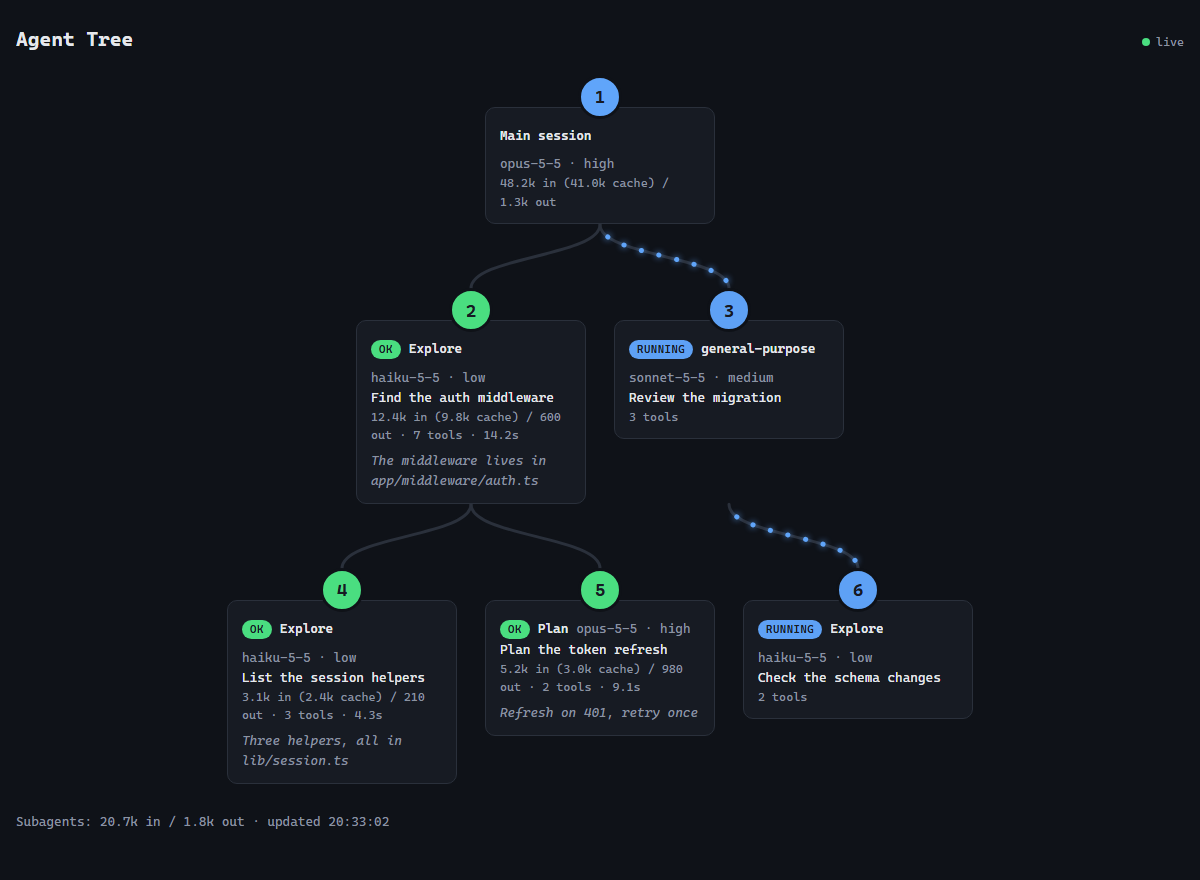
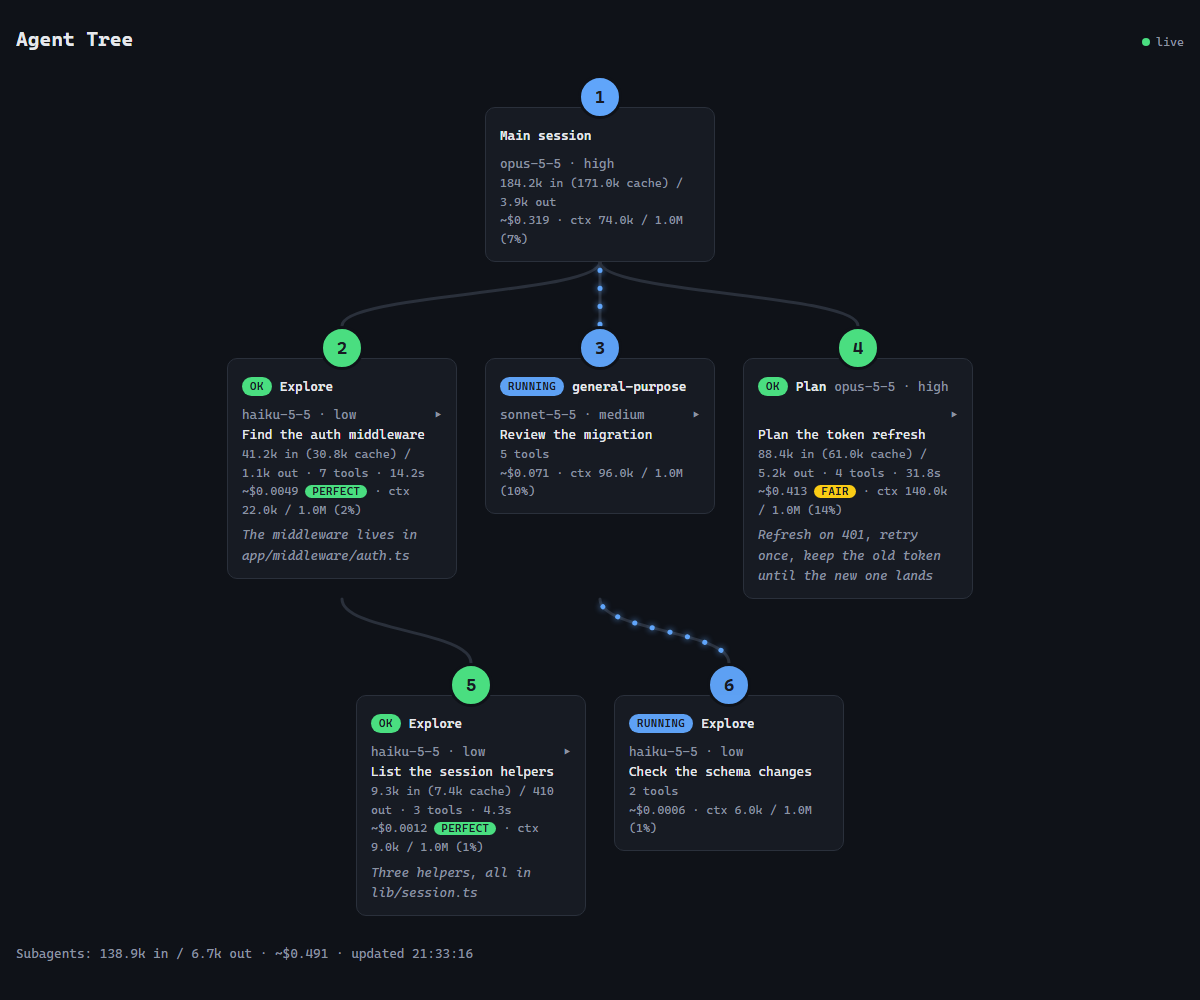
docs: update the README screenshot

diff --git a/README.md b/README.md
@@ -4,9 +4,9 @@ A Claude Code mod that opens an **Agents** pane beside the chat with a live tree
 
 It costs no model tokens: the hooks run inside the app and the pane is drawn by the interface, so nothing is added to the prompt.
 
-![The web page: the orchestrator on top, its subagents by level, joined by wires](docs/screenshot.png)
+![The web page: the orchestrator on top, its subagents by level joined by wires, each card with its estimated cost, rating and context](docs/screenshot.png)
 
-The same tree as a web page (sample data). The dots on a wire run from parent to child while that agent is working.
+The same tree as a web page (sample data). Each card shows the agent's estimated cost, its rating once it ends and how full its context is; the dots on a wire run from parent to child while that agent is working.
 
 ```
 Main session · opus-5-5 · high
